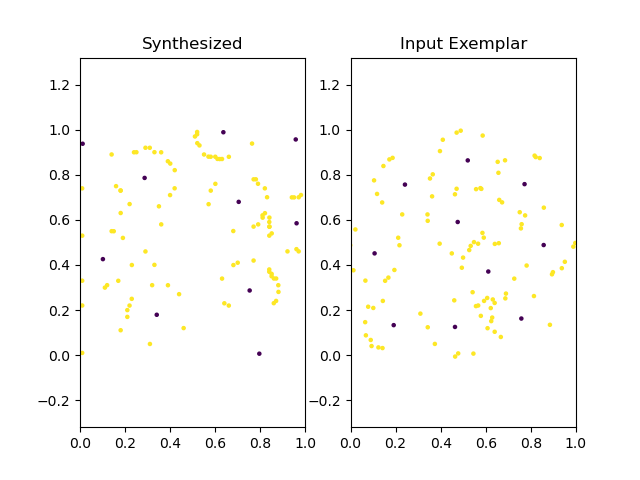
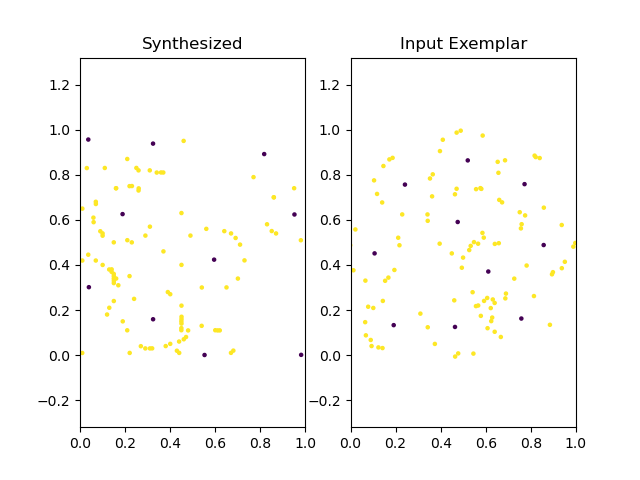
found the problem: need to use double instead of float

diff --git a/python/computeFunctions.py b/python/computeFunctions.py
@@ -32,17 +32,19 @@ class PCF(torch.nn.Module):
         rb = rs[-1]
         # print('PCF Parameters:', self.rmin, self.rmax, npoints)
 
-        self.rs = torch.FloatTensor(np.array(rs)).to(device)
-        self.area = torch.FloatTensor(np.array(area)).to(device)
-        self.sigma = torch.FloatTensor([sigma]).to(device)
-        self.gf = (1.0 / (np.sqrt(math.pi) * self.sigma))
+        self.rs = torch.DoubleTensor(np.array(rs)).to(device)
+        self.area = torch.DoubleTensor(np.array(area)).to(device)
+        self.sigma = torch.DoubleTensor([sigma]).to(device)
+        self.gf = 1.0 / (np.sqrt(math.pi) * self.sigma)
 
     def gaussianKernel(self, x):
-        return self.gf * torch.exp(-(x * x) / (self.sigma * self.sigma))
+        # return self.gf * torch.exp(-(x * x) / (self.sigma * self.sigma))
+        # print(x)
+        return self.gf * torch.exp(-((x * x)/(self.sigma * self.sigma)))
 
     def perimeter_weight(self, x, y):
 
-        full_angle = torch.ones(self.nbbins) * 2 * math.pi
+        full_angle = torch.ones(self.nbbins).double() * 2 * math.pi
         full_angle = full_angle.to(self.device)
         weights = torch.zeros_like(full_angle)
 
@@ -75,8 +77,9 @@ class PCF(torch.nn.Module):
             full_angle[idx] -= torch.min(alpha, torch.atan2(dy, dx)) + torch.min(alpha, torch.atan2((1 - dy), dx))
 
         perimeter = torch.clamp(full_angle / (2 * math.pi), 0, 1)
-        idx = perimeter > 1e-4  # none zero
+        idx = perimeter > 0  # none zero
         weights[idx] = 1 / perimeter[idx]
+        # weights = 1 / perimeter
         return weights
 
     def compute_weights(self, gen_pts, relation):
@@ -173,10 +176,10 @@ class PCF(torch.nn.Module):
     # def forward(self, pts, c, t, dimen=3, use_fnorm=True, mean_pcf=False):
     def forward(self, disks_a, disks_b, same_category, dimen=3, use_fnorm=True):
         # print(disks_a.shape, disks_b.shape, same_category)
-        pcf = torch.zeros(self.nbbins, 2).to(self.device)
+        pcf = torch.zeros(self.nbbins, 2).double().to(self.device)
         # hist = torch.zeros(self.nbbins)
-        pcf_lower = torch.ones(self.nbbins).to(self.device) * 1e4  # init with very large number
-        pcf_upper = torch.zeros(self.nbbins).to(self.device)
+        pcf_lower = torch.ones(self.nbbins).double().to(self.device) * 1e4  # init with very large number
+        pcf_upper = torch.zeros(self.nbbins).double().to(self.device)
 
         for i in range(disks_a.size(0)):
             pi = disks_a[i]
@@ -189,8 +192,11 @@ class PCF(torch.nn.Module):
 
             if use_fnorm:
                 d = utils.diskDistance(pi, pj, self.rmax)
+
                 val = self.gaussianKernel(self.rs.view(1, -1) / self.rmax - d.view(-1, 1).repeat(1, self.nbbins))
-                # print(val.shape, val[90:])
+                # print(self.rs.view(1, -1) / self.rmax - d.view(-1, 1).repeat(1, self.nbbins))
+                # print((self.rs.view(1, -1) / self.rmax - d.view(-1, 1).repeat(1, self.nbbins)).shape)
+                # print(val)
             else:
                 # dis = utils.euclidean(pts_1, pts_2)
                 # diff = (self.rs.view(1, -1) - dis.view(-1, 1).repeat(1, self.nbbins)) / self.rmax
@@ -200,8 +206,11 @@ class PCF(torch.nn.Module):
             pts_w = pi[0:1].view(1, -1)  # same
             weights = self.perimeter_weight(pts_w[:, 0], pts_w[:, 1])
             density = torch.sum(val, 0)
+            # print(density)
             density = density * weights / self.area  # consistent with cpp results until now
+            # print(weights)
             density = density / disks_b.size(0)
+            # print(density)
             pcf[:, 1] = pcf[:, 1] + density
             pcf_lower = torch.min(pcf_lower, density)
             pcf_upper = torch.max(pcf_upper, density)

diff --git a/simpler_cpp/src/computeFunctions.cpp b/simpler_cpp/src/computeFunctions.cpp
@@ -16,6 +16,7 @@ std::vector<float> compute_density(Disk const & pi, std::vector<Disk> const & ot
     for(unsigned long k=0; k<nSteps; k++)
     {
         float perimeter = perimeter_weight(pi.x, pi.y, radii[k]);
+        // std::cout << "perimeter: " << perimeter << std::endl;
         weights[k] = perimeter <= 0 ? 0.0f : 1.f/perimeter;
         // std::cout << "weights[k]: " << weights[k] << std::endl;
     }
@@ -32,15 +33,20 @@ std::vector<float> compute_density(Disk const & pi, std::vector<Disk> const & ot
         for(unsigned long k=0; k<nSteps; k++)
         {
             float r = radii[k]/rmax;
+            // std::cout << "r: " << r << std::endl;
             float res = gaussian_kernel(params.sigma, r-d);
-            // std::cout << "res: " << res << std::endl;
+            // std::cout << "r-d: " << j << " " << k << " " << r-d << std::endl;
+            // std::cout << "res2: " << j << " " << k << " " << res << std::endl;
+            
             density[k] += res;
         }
+        // std::cout << "diskDistance: " << j << " " << same_category_index << " " << d << std::endl;
     }
     for(unsigned long k=0; k<nSteps; k++)
     {
-        density[k] *= weights[k] / areas[k];
         // std::cout << "density[k]: " << density[k] << std::endl;
+        density[k] *= weights[k] / areas[k];
+        std::cout << "weights[k]: " << weights[k] << std::endl;
     }
     return density;
 }
@@ -139,6 +145,7 @@ std::vector<Target_pcf_type> compute_pcf(std::vector<Disk> const & disks_a, std:
     bool same_category = &disks_a == &disks_b;
     for(unsigned long i=0; i<disks_a.size(); i++)
     {
+        // std::cout << "same_category: " << same_category << std::endl;
         auto current = compute_density(disks_a[i], disks_b, area, radii, rmax, params, same_category ? i : disks_b.size(), disks_b.size());
         for(unsigned long k=0; k<nSteps; k++)
         {

diff --git a/python/utils.py b/python/utils.py
@@ -10,12 +10,16 @@ def diskDistance(a, b, rmax):
     # print(radius)
     r1 = torch.max(radius, dim=1)[0] / rmax
     r2 = torch.min(radius, dim=1)[0] / rmax
-    # print(r1, r2)
+    # print(r2)
     d = torch.norm(a[:, 0:2] - b[:, 0:2], dim=1) / rmax
+    # print(d)
     extent = torch.max(d + r1 + r2, 2 * r1)
+    # print(extent)
     overlap = torch.clamp(r1 + r2 - d, 0)
+    # print(overlap)
     idx = overlap > 2 * r2
     overlap[idx] = 2 * r2[idx]
+    # print(overlap)
     f = extent - overlap + d + r1 - r2
     # print(f)
 
@@ -23,17 +27,24 @@ def diskDistance(a, b, rmax):
     d_norm = torch.zeros_like(d)
 
     # print (d.size())
-    d_norm[idx1] = f[idx1] / (4 * r1[idx1] - 4 * r2[idx1])
-    # print (d[idx1].size())
+
+    if d_norm[idx1].size(0) > 0:
+        d_norm[idx1] = f[idx1] / (4 * r1[idx1] - 4 * r2[idx1])
+        print(d_norm[idx1])
 
     idx2 = d > r1 - r2
     idx3 = d <= r1 + r2
-    idx23 = idx2 * idx3
+    # idx23 = idx2 * idx3
+    idx23 = torch.logical_and(idx2, idx3)
     # print (d[idx23].size())
-    d_norm[idx23] = f[idx23] - 4 * r1[idx23] + 7 * r2[idx23] / (3 * r2[idx23])
+    if d_norm[idx23].size(0) > 0:
+        d_norm[idx23] = (f[idx23] - 4 * r1[idx23] + 7 * r2[idx23]) / (3 * r2[idx23])
+        # print('d <= r1 + r2:', d_norm[idx23])
 
     idx4 = d > r1 + r2
     # print (d[idx4].size())
-    d_norm[idx4] = f[idx4] - 4 * r1[idx4] - 2 * r2[idx4] + 3
+    if d_norm[idx4].size(0) > 0:
+        d_norm[idx4] = f[idx4] - 4 * r1[idx4] - 2 * r2[idx4] + 3
+        # print('else:', d_norm[idx4])
 
     return d_norm

diff --git a/python/asmcdd.py b/python/asmcdd.py
@@ -40,13 +40,15 @@ class ASMCDD(torch.nn.Module):
                 parent_disks = self.categories[category_j]
                 # print(len(target_disk), len(parent_disk))
 
-                target_disks = torch.from_numpy(np.array(target_disks)).float().to(self.device)
-                parent_disks = torch.from_numpy(np.array(parent_disks)).float().to(self.device)
+                target_disks = torch.from_numpy(np.array(target_disks)).double().to(self.device)
+                parent_disks = torch.from_numpy(np.array(parent_disks)).double().to(self.device)
                 same_category = False
                 # print(category_i, category_j, 2 * np.sqrt(1.0 / (2 * np.sqrt(3) * len(target_disks))))
                 if category_i == category_j:
                     same_category = True
-
+                # if not (category_i == 0 and category_j == 0):
+                #     continue
+                # print(category_j, category_i)
                 cur_pcf_model = PCF(self.device, nbbins=50, sigma=0.25, npoints=len(target_disks), n_rmax=5).to(self.device)
                 cur_pcf_mean, cur_pcf_min, cur_pcf_max = cur_pcf_model(target_disks, parent_disks, same_category=same_category, dimen=3, use_fnorm=True)
 

diff --git a/simpler_cpp/src/utils.cpp b/simpler_cpp/src/utils.cpp
@@ -89,18 +89,31 @@ float diskDistance(Disk const & a, Disk const & b, float rmax)
     }
     r1/=rmax;
     r2/=rmax;
+    // std::cout << "r1: " << r1 << std::endl;
+    // std::cout << "r2: " << r2 << std::endl;
+    
     float d = euclidian(a,b)/rmax;
+    // std::cout << "d: " << d << std::endl;
+    
     float extent = std::max(d+r1+r2, 2*r1);
+    // std::cout << "extent: " << extent << std::endl;
+
     float overlap = clip(r1+r2-d, 0.0f, 2*r2);
+    // std::cout << "overlap: " << overlap << std::endl;
+    
     float f = (extent-overlap+d+r1-r2);
     // std::cout << "f: " << f << std::endl;
-    if(d <= r1-r2)
-    {
+
+    if (d <= r1-r2) {
+        // std::cout << "d <= r1-r2: " << f/(4*r1 - 4*r2) << std::endl;
         return f/(4*r1 - 4*r2);
-    }else if(d <= r1+r2)
-    {
+
+    } else if(d <= r1+r2) {
+        // std::cout << "d <= r1+r2: " << (f - 4*r1 + 7*r2)/(3*r2) << std::endl;
         return (f - 4*r1 + 7*r2)/(3*r2);
-    }else{
+
+    } else {
+        // std::cout << "else: " << f - 4*r1 - 2*r2 + 3 << std::endl;
         return f - 4*r1 - 2*r2 + 3;
     }
 }

diff --git a/simpler_cpp/src/Category.cpp b/simpler_cpp/src/Category.cpp
@@ -53,9 +53,10 @@ void Category::computeTarget(){
 
     for(unsigned long parent : relations)
     {   
-        // if (id == parent) {     // TODO: remove this
-        //     continue;   
-        // }
+        // std::cout << "id: " <<id << ", parent: " << parent << std::endl;
+        if (id != 0 || parent != 0) {     // TODO: remove this
+            continue;   
+        }
         float rmax = target_rmax[parent];
         std::cout << "id: " <<id << ", parent: " << parent << " " << rmax << std::endl;
         for(unsigned long i=0; i<nSteps; i++)

diff --git a/simpler_cpp/include/utils.h b/simpler_cpp/include/utils.h
@@ -109,6 +109,7 @@ inline float euclidian(Disk const & a, Disk const & b)
 inline float gaussian_kernel(float sigma, float x)
 {
     static const float sqrtpi = std::sqrt(M_PI);
+    // std::cout << "exp:" << x << std::endl;
     return std::exp(-((x*x)/(sigma*sigma)))/(sqrtpi*sigma);
 }
 
